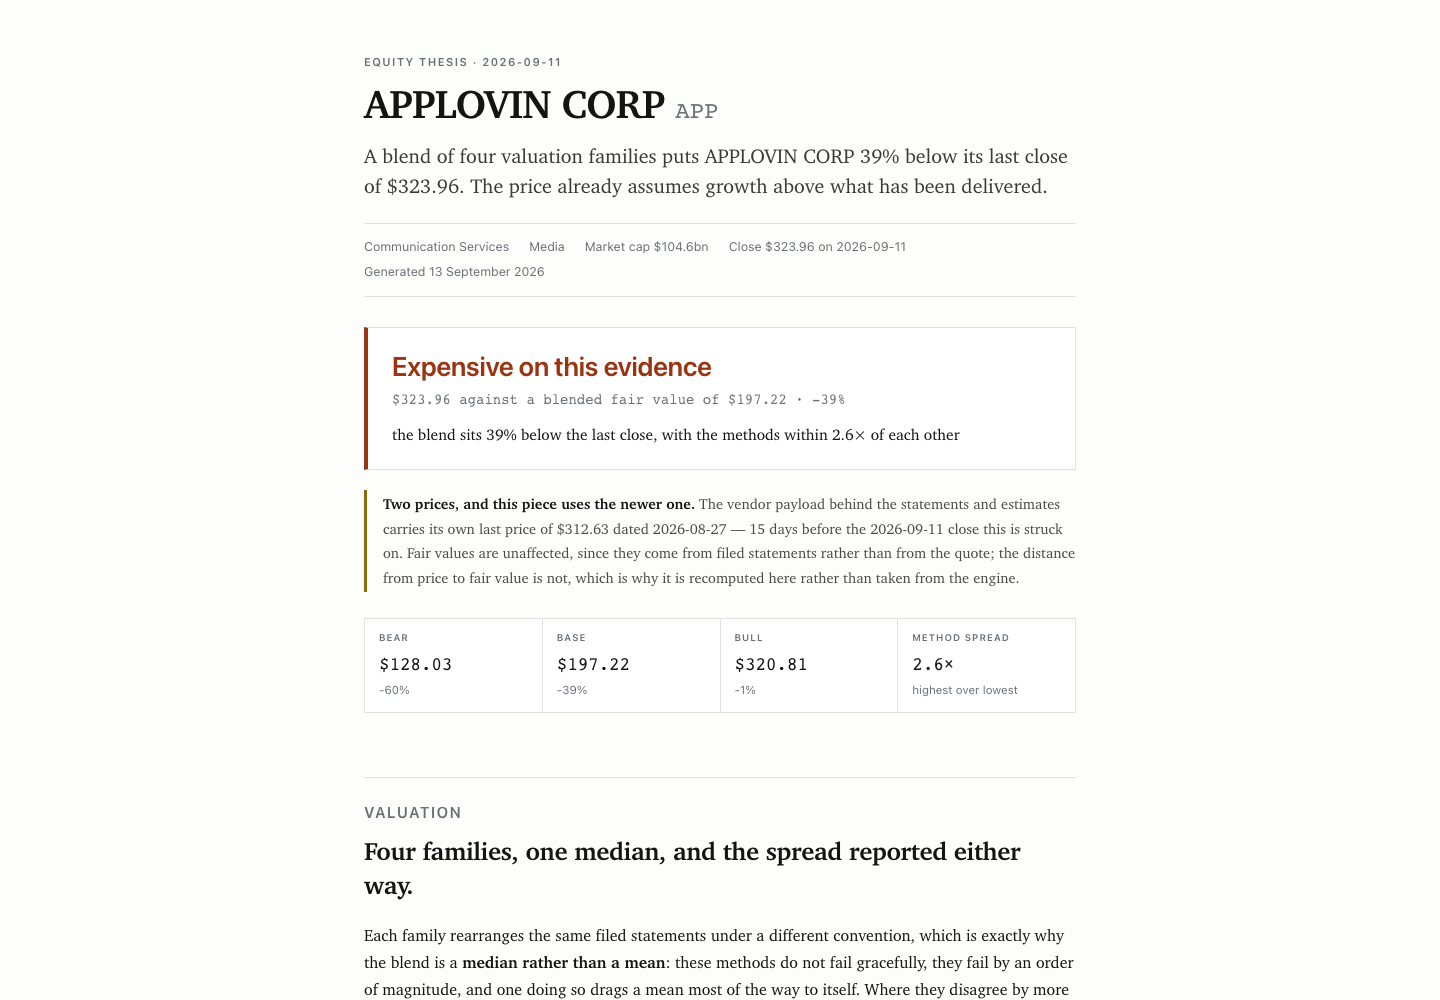
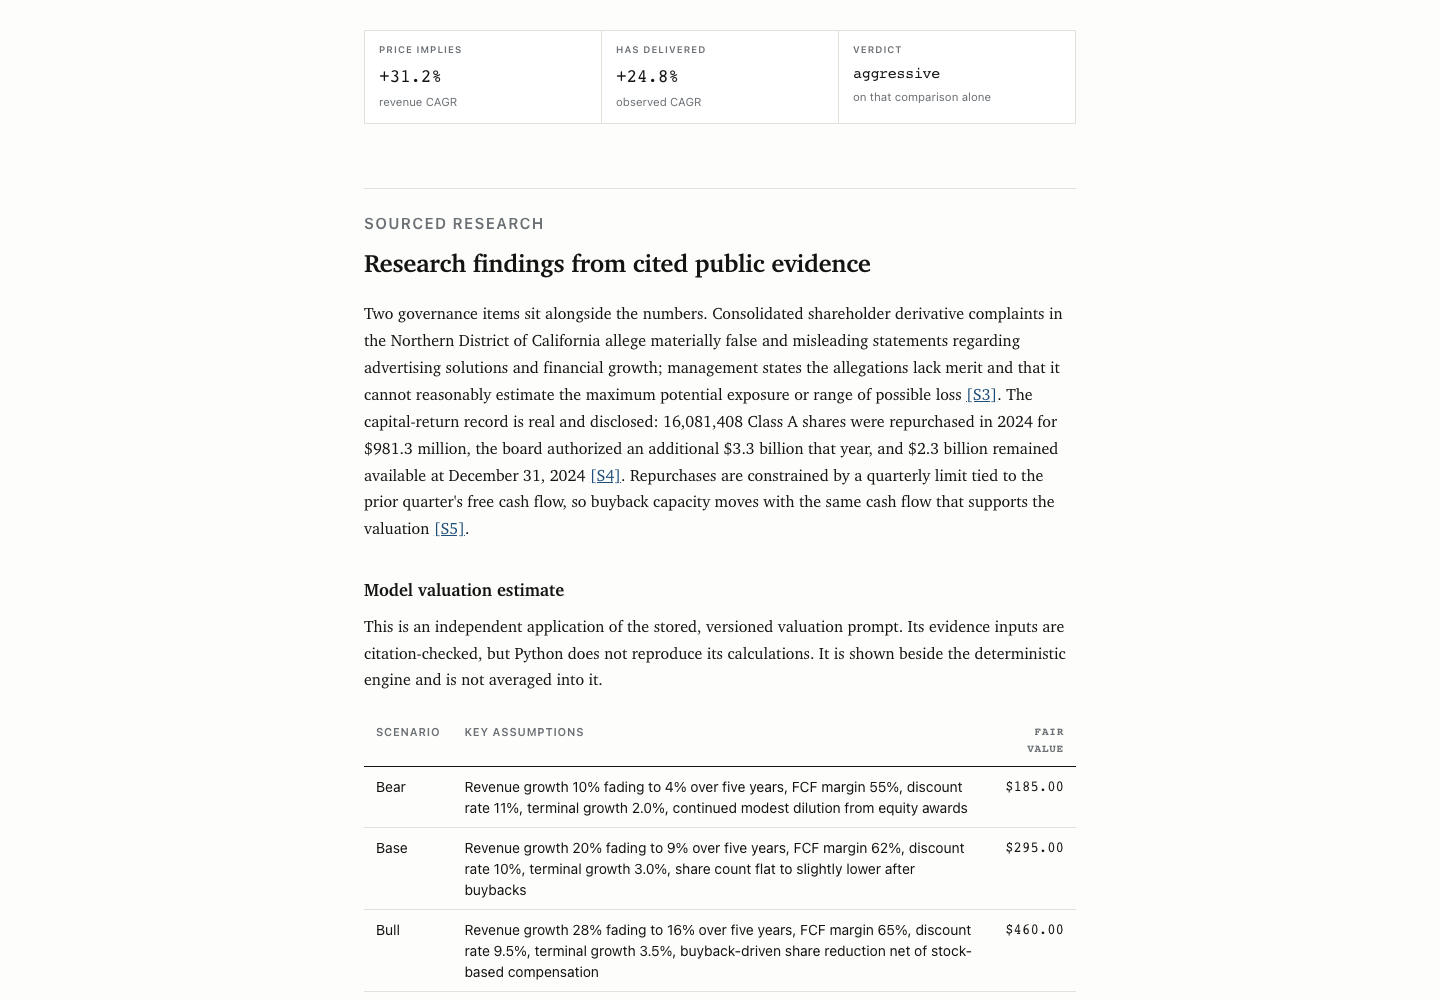
Show sourced equity thesis safeguards

diff --git a/README.md b/README.md
@@ -174,15 +174,21 @@ discoverable from the same workflow used to inspect the company.
 
 **Guardrail.** The report identifies the price and date used, surfaces source
 price discrepancies, and carries missing or weak evidence into the conclusion.
-Unsupported methods are omitted rather than approximated, and model-written
-interpretation cannot replace computed values. Sector, debt, and the
-company-specific growth metric are explicit: financial-company debt is not
-read like industrial leverage, and AFFO/FFO is not silently replaced with EPS.
+Each detailed run refreshes the issuer's public SEC filings, grounds research
+claims in dated filing excerpts, links the source, and rejects prose whose
+citations or figures cannot be validated. Forward estimates two years out or
+later need at least five analysts. The model's valuation is visibly separate
+and labelled as calculation-unverified; it cannot replace or silently alter the
+deterministic value. Sector, debt, and the company-specific growth metric remain
+explicit: financial-company debt is not read like industrial leverage, and
+AFFO/FFO is not silently replaced with EPS.
 
 **Outcome.** The first review cohort covers market-cap ranks 1–50 in a stable,
 auditable order. Operators get a comparable decision record—cheap, fair,
-expensive, unresolved, or not assessable—without a batch silently continuing
-past the human review point or filling evidence gaps with invented values.
+expensive, unresolved, or not assessable—plus a public-evidence trail showing
+what survived validation and how many model paragraphs were discarded. A batch
+cannot silently continue past the human review point or fill evidence gaps with
+invented values.
 
 ### Case study — observability for 72 automated jobs
 
